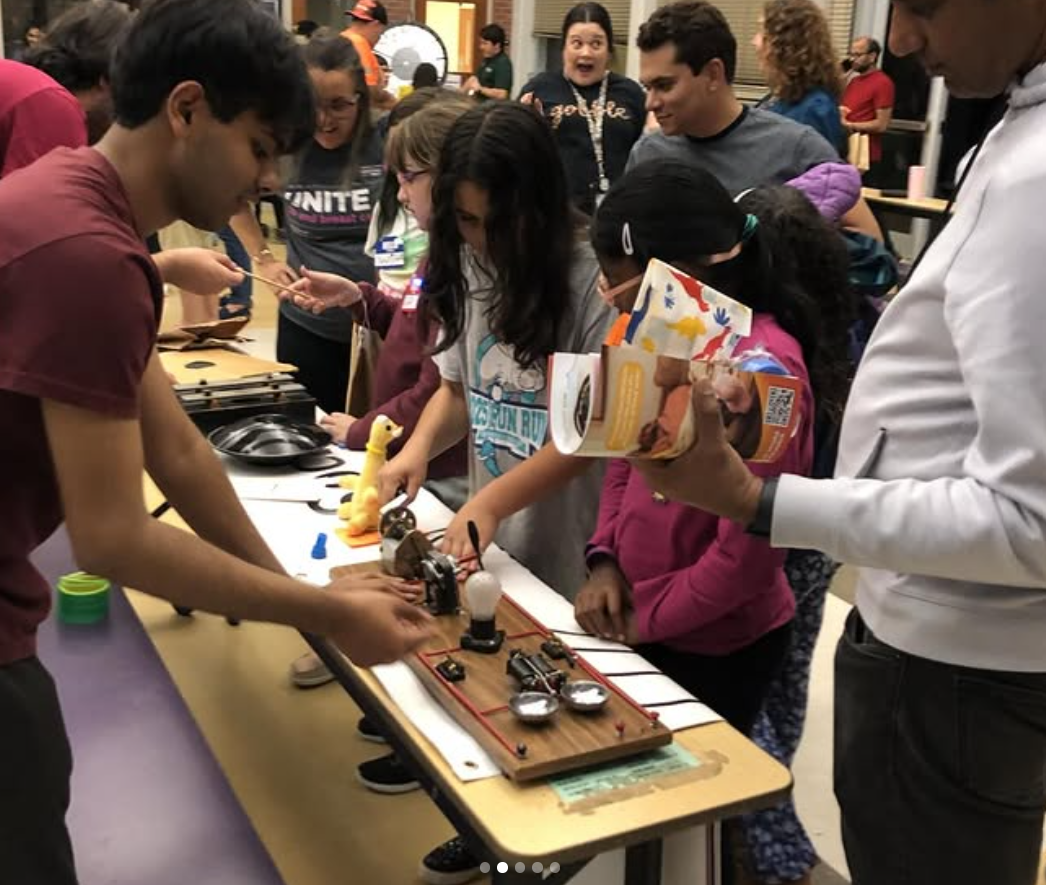
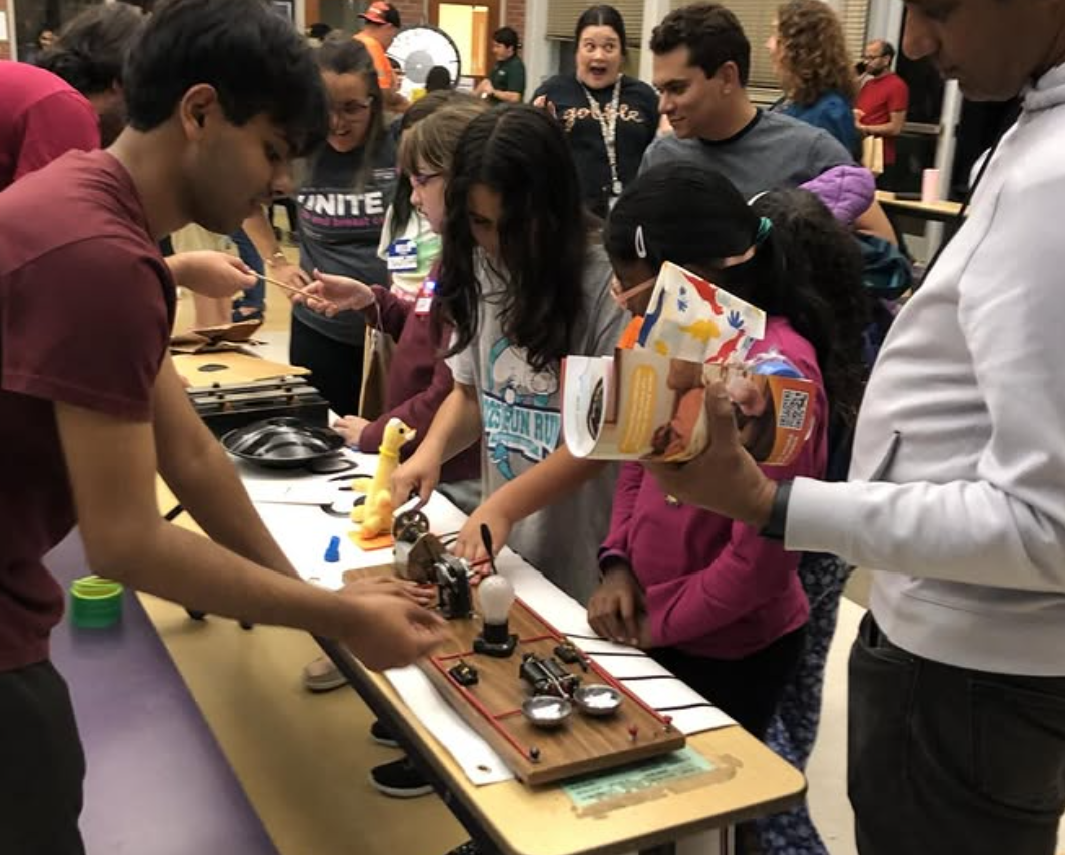
changed image sizes

diff --git a/docs/outreach.html b/docs/outreach.html
@@ -34,13 +34,13 @@
         <br>
 
         <img src = "./files/outreach_photos/STEAM_night_meadowbrook.png" alt = "Meadowbrook STEAM Night 2025"
-        width = "756" height = "567"/>
+        width = "756" height = "612"/>
         <p>Our booth for 2025 STEAM night at Meadowbrook Elementary.</p>
 
         <br>
 
         <img src = "./files/outreach_photos/STEAM_night_howard.jpg" alt = "Howard STEAM Night 2025"
-        width = "756" height = "567"/>
+        width = "756" height = "579"/>
         <p>Our booth for 2025 STEAM night at Howard Middle School.</p>
 
     </body>
